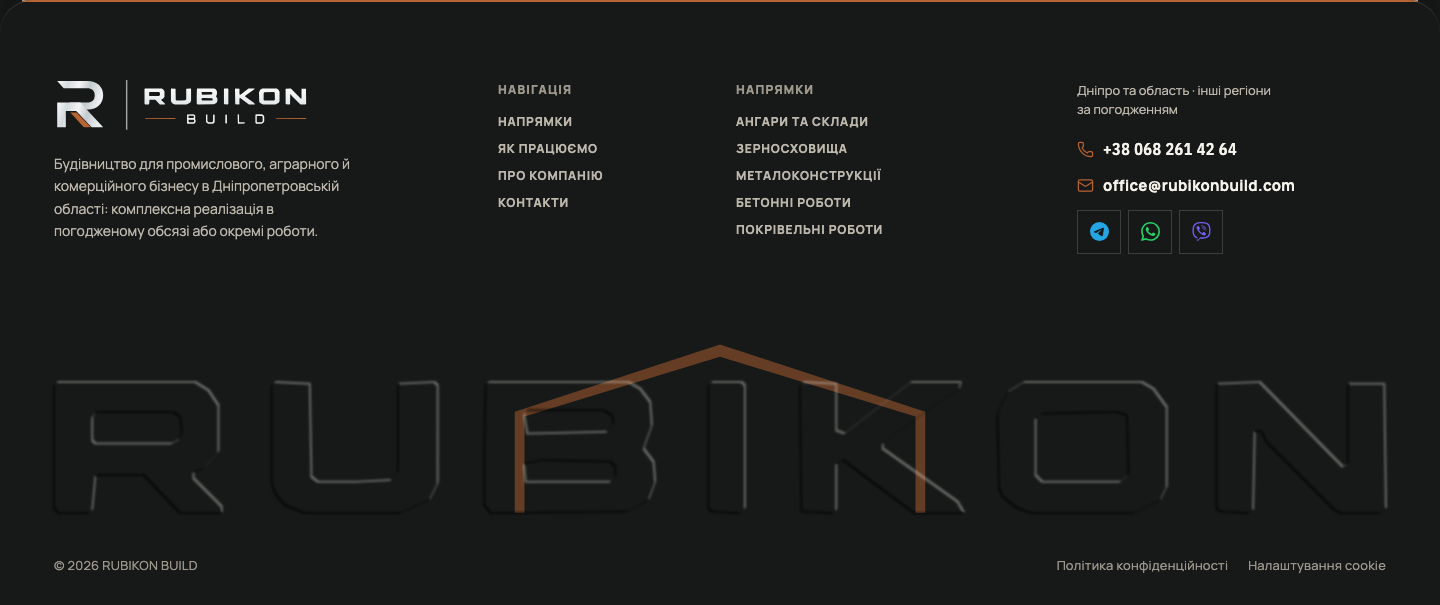
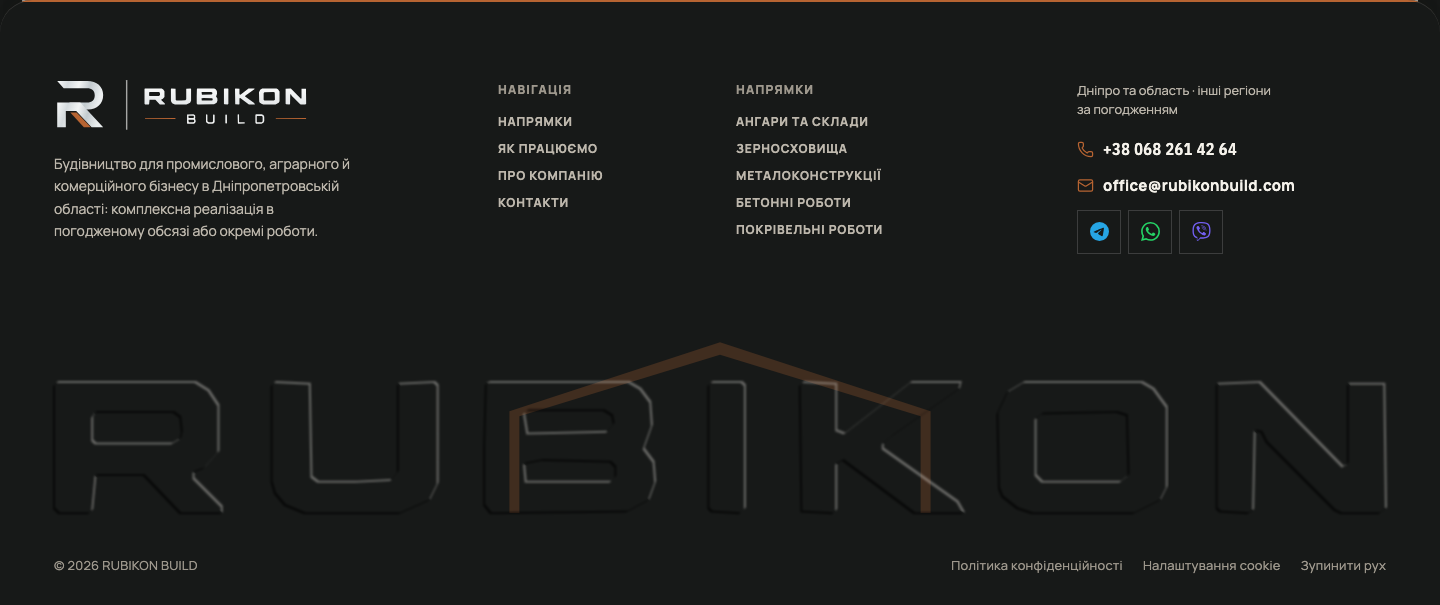
design(footer): мідь декору тихіша за мідь контактів (власник 09.11: «приглуш»)
Мідь на сайті — колір дії (кнопки дзвінка, іконки телефону й пошти). Великі мідні форми
сцен — балка, рама, стропи — тепер на 45 % (QUIET), нижній ряд кладки до 72 %; повна мідь
у підвалі лишилась лише в контактах. unit: заливки міддю не яскравіші за межу; знімки.

diff --git a/tests/unit/footer-scenes.test.ts b/tests/unit/footer-scenes.test.ts
@@ -1,7 +1,7 @@
 import { readFileSync } from 'node:fs';
 import { describe, expect, it } from 'vitest';
 import { FOOTER_SCENE_PAGES } from '../../app/components/FooterSignatureLife';
-import { FOOTER_SCENES, IN_TURN, MISSING_FOR, TURN, five, flats, grain, inTurn, masonry, missing, rain, weld, type FooterScene, type WordGeometry } from '../../app/components/footerScenes';
+import { FOOTER_SCENES, IN_TURN, MISSING_FOR, QUIET, TURN, beam, five, flats, frames, grain, inTurn, masonry, missing, rain, weld, type FooterScene, type WordGeometry } from '../../app/components/footerScenes';
 
 const SCENE_BY_NAME = { rain, weld, grain, five };
 
@@ -117,6 +117,37 @@ describe('footer scenes: continuous', () => {
     expect(Math.max(...perSecond)).toBeGreaterThan(0);
     expect(FOOTER_SCENES['.about-page']).toBe(masonry);
     expect(IN_TURN).toContain(masonry);
+  });
+
+  // independent review 09.11, owner «приглуш»: copper is the call colour, so the large decorative copper stays quiet
+  it('fills its large copper shapes at no more than the quiet share, the masonry\'s lower course a little above it', () => {
+    const fills: { style: string; alpha: number }[] = [];
+    const state = { fillStyle: '', globalAlpha: 1 };
+    const gradient = { addColorStop: () => undefined };
+    const context = new Proxy(state, {
+      get: (target, key) => {
+        if (key === 'createLinearGradient' || key === 'createRadialGradient') return () => gradient;
+        if (key === 'fill' || key === 'fillRect') return () => fills.push({ style: String(target.fillStyle), alpha: target.globalAlpha });
+        return () => undefined;
+      },
+      set: (target, key, value) => {
+        if (key === 'fillStyle' || key === 'globalAlpha') Object.assign(target, { [key]: value });
+        return true;
+      },
+    }) as unknown as CanvasRenderingContext2D;
+    for (const make of [beam, frames, masonry]) {
+      const scene = make(geometry);
+      let time = 0;
+      for (let frame = 0; frame < 60 * 30; frame++) {
+        time += 1 / 60;
+        scene.back?.(context, 1 / 60, time);
+        scene.front?.(context, 1 / 60, time);
+      }
+    }
+    const loudest = (colour: string) => Math.max(0, ...fills.filter((fill) => fill.style.toUpperCase() === colour).map((fill) => fill.alpha));
+    expect(loudest('#B76432')).toBeLessThanOrEqual(QUIET);
+    expect(loudest('#9C5A34')).toBeLessThanOrEqual(.75);
+    expect(loudest('#B76432')).toBeGreaterThan(0);
   });
 
   it('the home page plays every direction in turn, fading between them', () => {

diff --git a/app/components/footerScenes.ts b/app/components/footerScenes.ts
@@ -35,6 +35,12 @@ export type FooterScene = {
 
 const INK = '#BDB7AC';
 const COPPER = '#B76432';
+/**
+ * Copper is the site's action colour (the call buttons, the footer's phone and email icons): a scene's large copper shapes —
+ * the beam, the frame, the masonry's lower course, the slings — stay at this much of it, so the brightest copper in the
+ * footer is the contact, not the decoration (independent review 09.11; owner: «приглуш»)
+ */
+export const QUIET = .45;
 const HOT = '#FFECCD';
 const SPRAY = '#E2DCD0';
 const GRAIN = '#D9C7A3';
@@ -352,7 +358,8 @@ export function beam(g: WordGeometry): FooterScene {
       fillShape(c, [
         [x, y], [x + width, y], [x + width, y + flange], [middle + web / 2, y + flange], [middle + web / 2, y + height - flange], [x + width, y + height - flange],
         [x + width, y + height], [x, y + height], [x, y + height - flange], [middle - web / 2, y + height - flange], [middle - web / 2, y + flange], [x, y + flange],
-      ], COPPER, 1);
+      ], COPPER, QUIET);
+      c.globalAlpha = QUIET;
       c.strokeStyle = COPPER;
       c.lineWidth = 1.4;
       c.beginPath();
@@ -377,7 +384,7 @@ export function frames(g: WordGeometry): FooterScene {
       fillShape(c, [
         [x, y], [x, eave], [centre, ridge], [x + w, eave], [x + w, y], [x + w - t, y],
         [x + w - t, eave + t * .5], [centre, ridge + t * 1.25], [x + t, eave + t * .5], [x + t, y],
-      ], COPPER, Math.sin(p * Math.PI) * .7);
+      ], COPPER, Math.sin(p * Math.PI) * QUIET * .8);
     },
   };
 }
@@ -436,7 +443,7 @@ export function masonry(g: WordGeometry): FooterScene {
         if (since < 0) continue;
         // each block drops the last few pixels into its place
         const k = Math.min(1, since / .35), y = block.y - (1 - k * k) * 36, alpha = Math.min(1, k * 2) * fade;
-        c.globalAlpha = alpha;
+        c.globalAlpha = alpha * (block.course ? .8 : QUIET * 1.6);
         c.fillStyle = block.course ? '#CFC6B4' : '#9C5A34';
         c.fillRect(block.x, y, block.w, h);
         c.globalAlpha = .6 * alpha;
@@ -524,7 +531,7 @@ export function missing(g: WordGeometry): FooterScene {
   let landed = false;
   /** The slings over the letter, from its two shoulders to the hook, and the hook's line up out of the canvas */
   const slings = (c: CanvasRenderingContext2D, top: number, sway: number, alpha: number) => {
-    c.globalAlpha = alpha;
+    c.globalAlpha = alpha * QUIET;
     c.strokeStyle = COPPER;
     c.lineWidth = 1.4;
     c.beginPath();

diff --git a/docs/handoffs/2026-11-08-footer-scenes.md b/docs/handoffs/2026-11-08-footer-scenes.md
@@ -84,7 +84,10 @@
 уточнено: юридичний текст рядка рахується без цієї кнопки, а цілі дотику на телефоні — лише видимі (кнопка там схована).
 Знімки: `after-stop-button.png`, `after-stop-pressed.png`.
 
-Чекають рішення власника: мідь декору тихіше за мідь контактів,
+Мідь декору приглушено — власник 09.11: «Так, приглуш». Балка, рама й стропи — мідь на 45 % (`QUIET`), нижній ряд кладки
+(темніша мідь) до 72 %: найяскравіша мідь у підвалі — іконки телефону й пошти. Unit-тест записує заливки й тримає межу.
+
+Чекають рішення власника:
 «тиша, поки людина в контактах», один перемикач руху для всього сайту. Не виміряно: CPU у Safari на Mac з підвалом на екрані.
 
 ## Знімки
